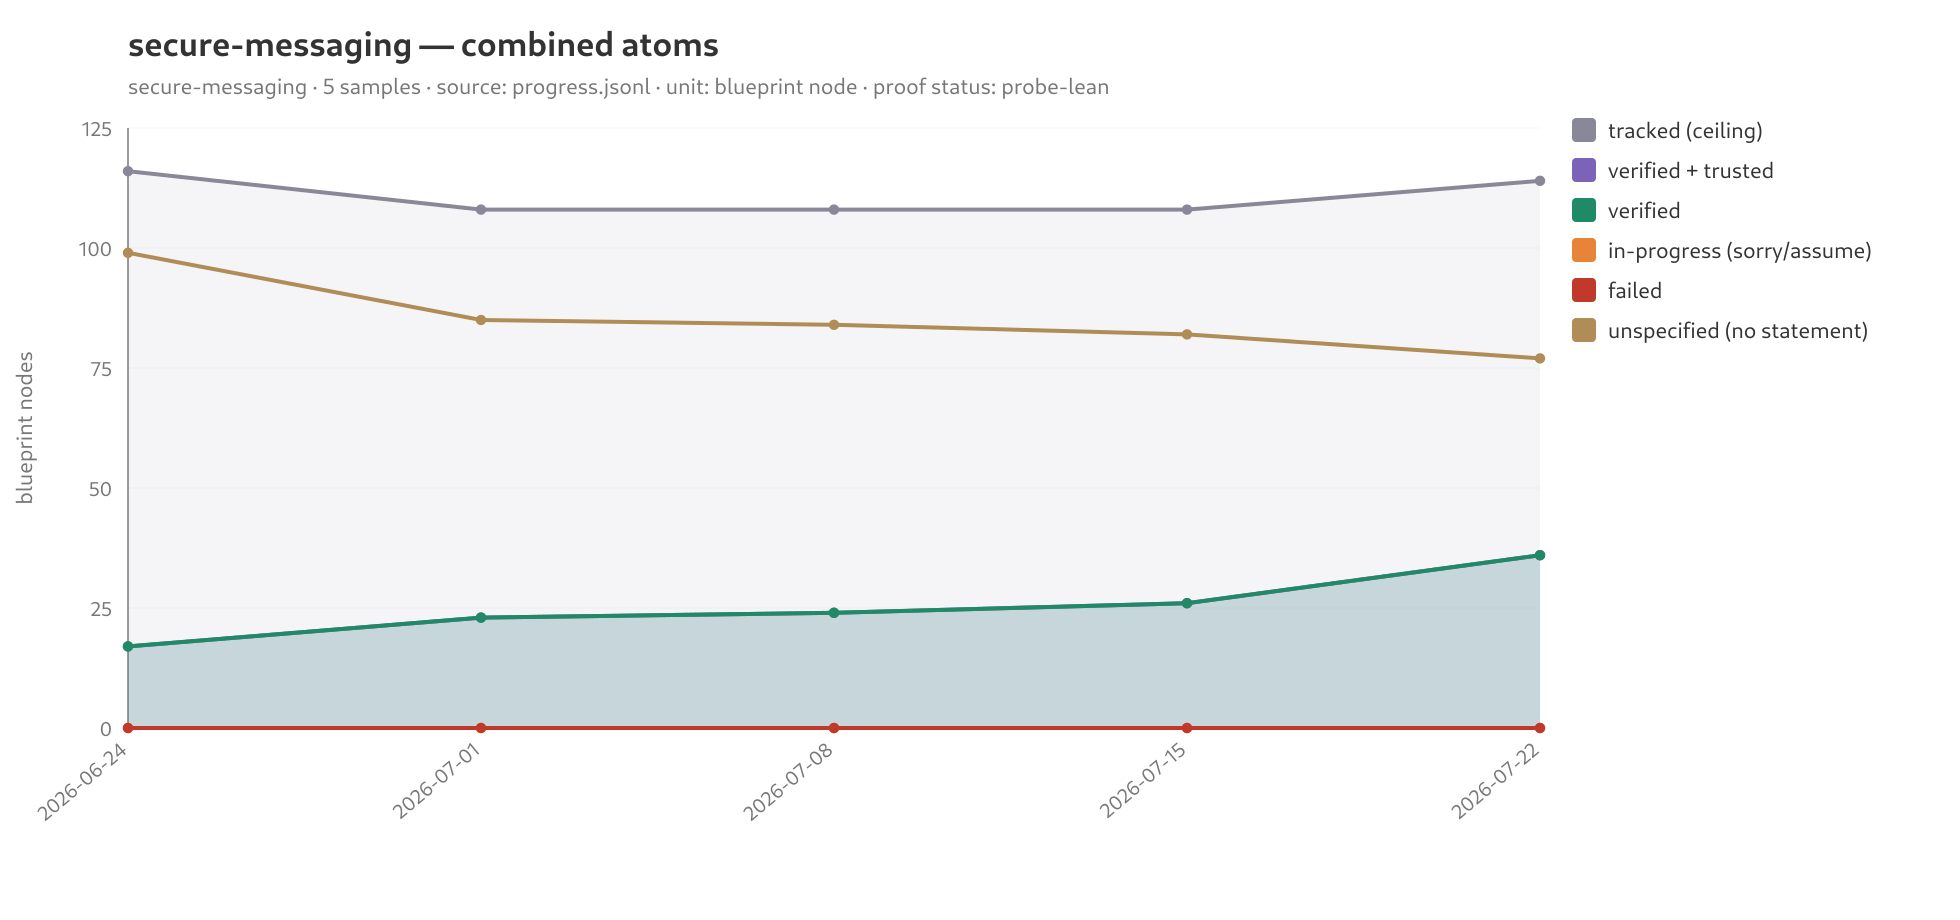
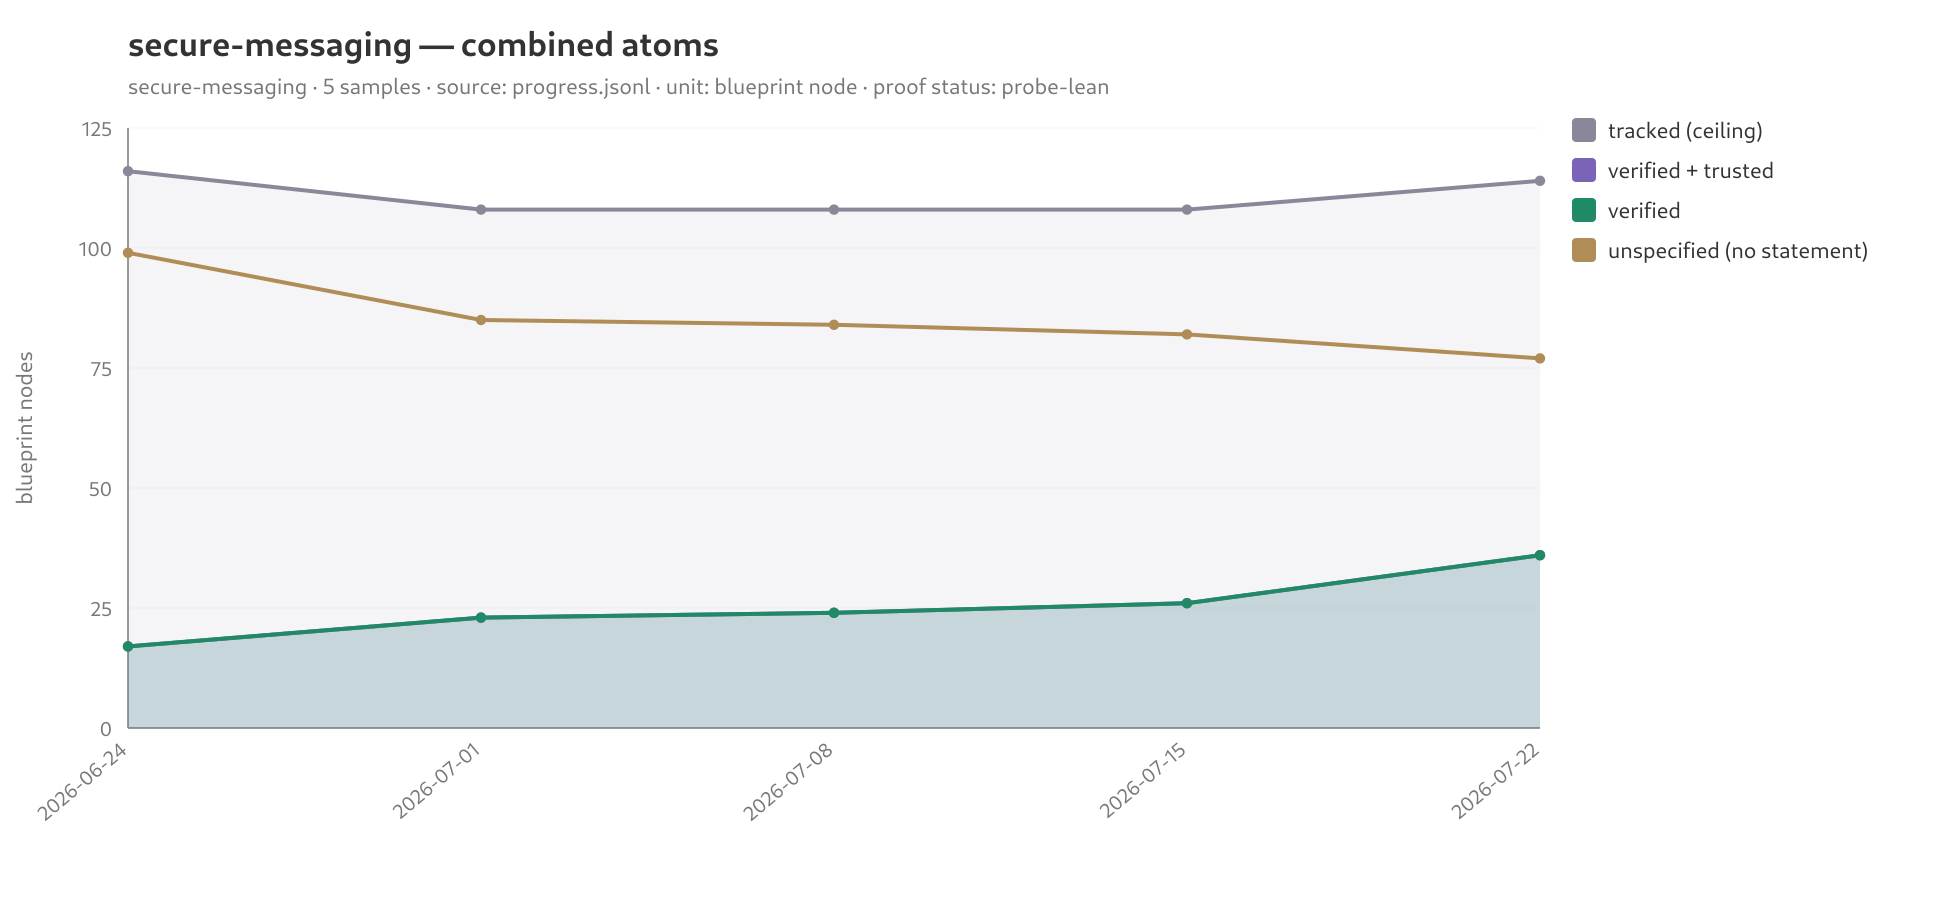
feat(progress-history): draw combined-atoms in-progress/failed only when present
Match the colour burn-up: the combined-atoms status curves (in-progress, failed)
are now drawn only when some sample has one, instead of always. A clean history
(secure-messaging: both zero) stays uncluttered; the frontiers (tracked,
verified+trusted, verified) remain always on. Regenerated burnup-atoms.svg/png.

Changed region(s): [[0.7781, 0.2435, 0.9648, 0.3652]]

diff --git a/tools/verification-progress-history/plot_progress.py b/tools/verification-progress-history/plot_progress.py
@@ -370,9 +370,10 @@ def combined_atoms_svg(ok, base_title, subtitle, show_unspecified=False):
     counting every blueprint node as an atom.
 
     Frontiers (nested): ``tracked >= verified+trusted >= verified``. Status curves
-    (zero-based): ``in-progress`` (probe-lean ``unverified``: a sorry), ``failed``
-    (probe-lean elaboration error), and optionally ``unspecified`` (no Lean
-    statement). The completion frontier is the probe-lean status of each node's
+    (zero-based): ``in-progress`` (probe-lean ``unverified``: a sorry) and
+    ``failed`` (probe-lean elaboration error) are drawn only when present, so a
+    clean history stays uncluttered; ``unspecified`` (no Lean statement) is opt-in
+    via ``show_unspecified``. The completion frontier is the probe-lean status of each node's
     bound atoms (``verified`` = green = verified + transitively-verified;
     ``+trusted`` = axiom/external); the ceiling and the unspecified split come
     from the blueprint statement axis. Returns ``(svg, warnings)``; warnings flag
@@ -412,9 +413,6 @@ def combined_atoms_svg(ok, base_title, subtitle, show_unspecified=False):
     plot.line(tracked, COL["tracked"])
     plot.line(verified_trusted, COL["verified_trusted"])
     plot.line(verified, COL["verified"])
-    # Zero-based status counts (distinct states, not a conflated gap).
-    plot.line(in_progress, COL["in_progress"])
-    plot.line(failed, COL["failed"])
     # Band names match the FC colour burn-up (burnup_svg) so the two charts read
     # with one vocabulary; the node-vs-atom unit and blueprint-vs-probe-lean
     # provenance live in the subtitle and the "How to read" docs.
@@ -422,9 +420,15 @@ def combined_atoms_svg(ok, base_title, subtitle, show_unspecified=False):
         ("tracked (ceiling)", COL["tracked"]),
         ("verified + trusted", COL["verified_trusted"]),
         ("verified", COL["verified"]),
-        ("in-progress (sorry/assume)", COL["in_progress"]),
-        ("failed", COL["failed"]),
     ]
+    # Zero-based status curves, drawn only when present (like `translated` /
+    # `failed` on the colour burn-up) so a clean history stays uncluttered.
+    if any(in_progress):
+        plot.line(in_progress, COL["in_progress"])
+        legend.append(("in-progress (sorry/assume)", COL["in_progress"]))
+    if any(failed):
+        plot.line(failed, COL["failed"])
+        legend.append(("failed", COL["failed"]))
     if show_unspecified:
         plot.line(unspecified, COL["unspecified"])
         legend.append(("unspecified (no statement)", COL["unspecified"]))

diff --git a/tools/verification-progress-history/tests/test_plot_progress.py b/tools/verification-progress-history/tests/test_plot_progress.py
@@ -162,7 +162,7 @@ def _bpa(date, **over):
 
 
 def test_combined_atoms_single_panel_and_fc_aligned_legend():
-    ok = [_bpa("2026-06-24", bp_thm_verified=4), _bpa("2026-07-22")]
+    ok = [_bpa("2026-06-24", bp_thm_verified=4), _bpa("2026-07-22")]  # thm_in_progress=1
     svg, warns = pp.combined_atoms_svg(ok, "secure-messaging", "sub", show_unspecified=True)
     assert warns == []
     assert svg.count("<svg") == 1  # one panel, not two
@@ -170,11 +170,22 @@ def test_combined_atoms_single_panel_and_fc_aligned_legend():
     # Band names match the FC colour burn-up vocabulary.
     assert "tracked (ceiling)" in svg
     assert "verified + trusted" in svg
-    assert "in-progress (sorry/assume)" in svg
-    assert ">failed</text>" in svg
+    assert "in-progress (sorry/assume)" in svg  # present -> drawn
     assert "unspecified (no statement)" in svg
     # The unit stays explicit via the y-axis label (not the FC "atom count").
     assert "blueprint nodes" in svg
+
+
+def test_combined_atoms_status_curves_only_when_present():
+    # A fully clean history: no in-progress, no failed -> neither curve is drawn.
+    clean = [_bpa("2026-07-22", bp_thm_in_progress=0, bp_def_failed=0, bp_thm_failed=0)]
+    svg, _ = pp.combined_atoms_svg(clean, "t", "s")
+    assert "in-progress (sorry/assume)" not in svg
+    assert ">failed</text>" not in svg
+    # A history with a failure -> the failed curve appears automatically.
+    withfail = [_bpa("2026-07-22", bp_def_failed=2)]
+    svg2, _ = pp.combined_atoms_svg(withfail, "t", "s")
+    assert ">failed</text>" in svg2
 
 
 def test_combined_atoms_nesting_violation_warns_and_stamps():

diff --git a/tools/verification-progress-history/README.md b/tools/verification-progress-history/README.md
@@ -168,8 +168,9 @@ python3 plot_progress.py data/secure-messaging/progress.jsonl --atoms --unspecif
 `--atoms` (leanblueprint only) draws instead a single **combined** panel that
 puts definitions and theorems in one atom pool, using the FC ("Atom statuses and
 colours") vocabulary: nested frontiers `tracked ≥ verified+trusted ≥ verified`,
-plus zero-based `in-progress` (a `sorry`) and `failed` curves; `--unspecified`
-adds the no-Lean-statement curve. The unit is a **blueprint node** (stated in the
+plus zero-based `in-progress` (a `sorry`) and `failed` curves drawn only when
+present (a clean history stays uncluttered); `--unspecified` adds the
+no-Lean-statement curve. The unit is a **blueprint node** (stated in the
 subtitle), and the ceiling is a per-sample inventory — it can go down as well as up,
 so this is not a monotonic burn-up. The statement axis (`unspecified` /
 `formalized` ceiling) comes from the blueprint; the proof split
@@ -231,8 +232,8 @@ and the *proof* status from probe-lean (see subtitle):
   incl. `trusted` (axiom/external).
 - **verified** — the subset with no trusted binding (green: probe-lean `verified`
   + `transitively-verified`).
-- **in-progress** — formalized nodes with a `sorry` in a binding.
-- **failed** — formalized nodes with an elaboration error.
+- **in-progress** — formalized nodes with a `sorry` in a binding (drawn when present).
+- **failed** — formalized nodes with an elaboration error (drawn when present).
 - **unspecified** (`--unspecified`) — nodes with no Lean statement yet.
 Because the unit is a node, sorries in code the blueprint does not track are not
 shown (the Scope caveat above).
